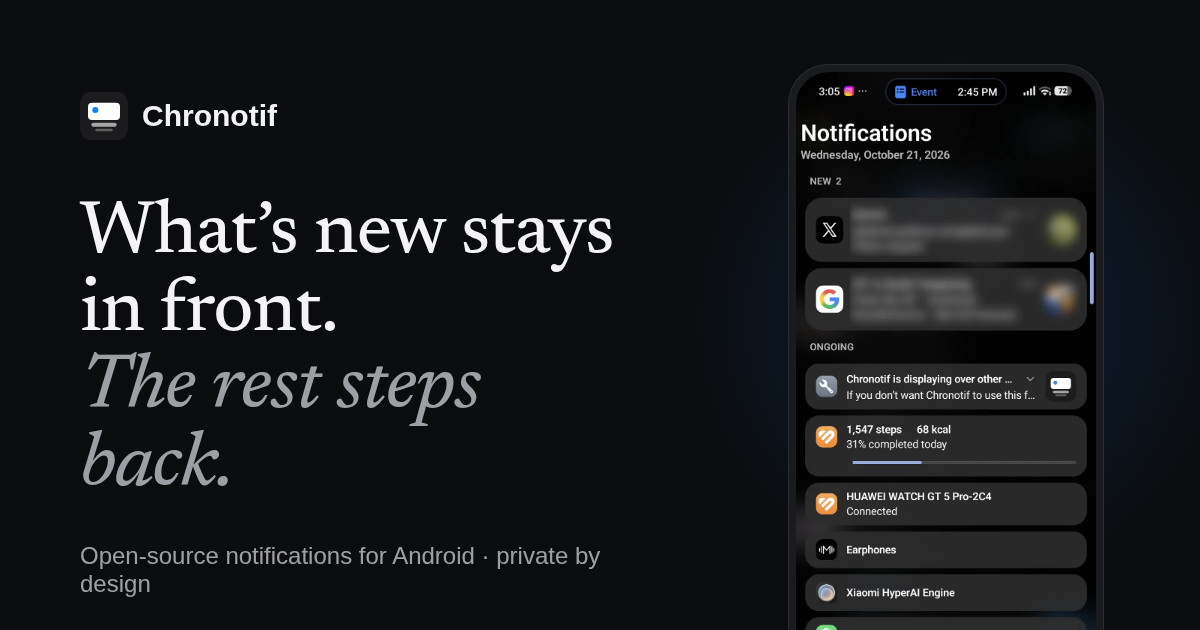
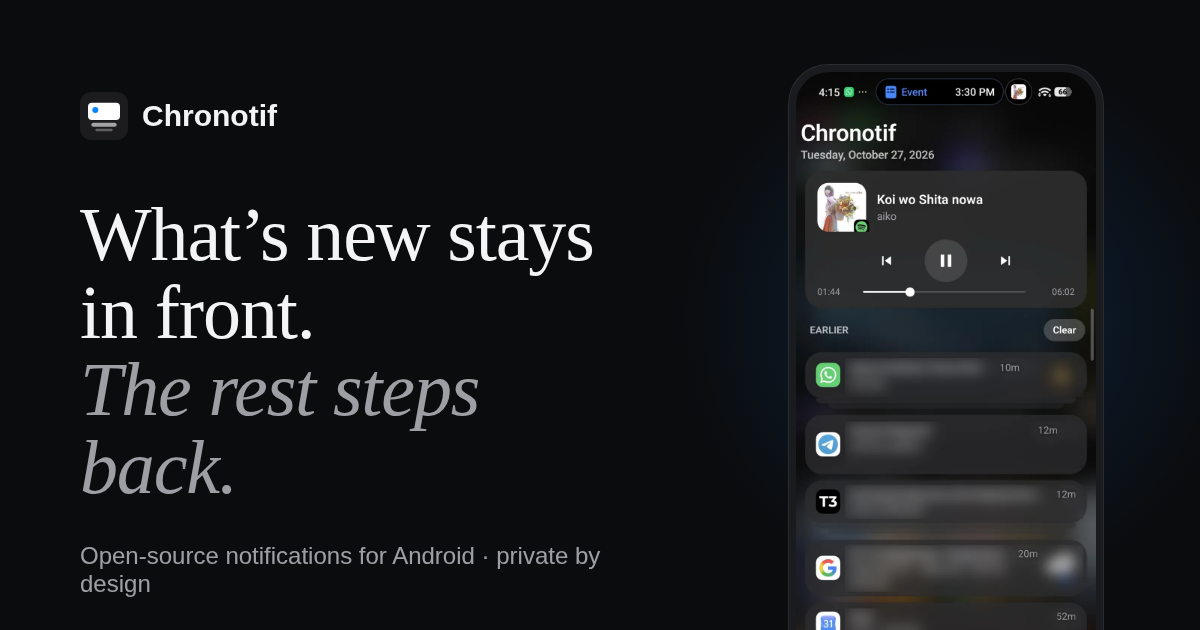
Show the new media player in the website's panel screenshot
The panel screenshot (also used in the README and the social image)
still showed the old Ongoing section full of always-running services.
It now shows the media player at the top and Earlier below, with the
notification contents blurred by the redaction script as before.

Changed region(s): [[0.6475, 0.1206, 0.925, 1.0], [0.0617, 0.3016, 0.5242, 0.6937], [0.0617, 0.6937, 0.2158, 0.7841]]

diff --git a/website/index.html b/website/index.html
@@ -29,7 +29,7 @@
     <meta property="og:image:height" content="630" />
     <meta
       property="og:image:alt"
-      content="Chronotif's notification panel on an Android phone, with New, Ongoing and Earlier sections."
+      content="Chronotif's notification panel on an Android phone: a music player at the top, then Earlier notifications."
     />
     <meta name="twitter:card" content="summary_large_image" />
     <meta name="twitter:title" content="Chronotif: calm, chronological notifications for Android" />
@@ -135,7 +135,7 @@
               sizes="(min-width: 960px) 300px, 54vw"
               width="480" height="1040"
               fetchpriority="high"
-              alt="Chronotif's notification panel: two notifications under New 2, from now and 13 minutes ago, then a compact Ongoing section."
+              alt="Chronotif's notification panel: a Spotify player with artwork, play controls and a seek bar at the top, then blurred notifications under Earlier, 10 to 55 minutes old."
             />
           </figure>
         </div>

diff --git a/README.md b/README.md
@@ -15,7 +15,7 @@ stay accessible without competing for the same attention.
 [Setup help](docs/guide.md#install)
 
 <p align="center">
-  <img src="website/public/screens/panel-480.webp" width="220" alt="Notification panel with New notifications at the top and a compact Ongoing section below.">
+  <img src="website/public/screens/panel-480.webp" width="220" alt="Notification panel with a music player at the top, then notifications under Earlier.">
   &nbsp;
   <img src="website/public/screens/lock-new-480.webp" width="220" alt="Lock-screen view showing five new notifications, newest first.">
   &nbsp;
